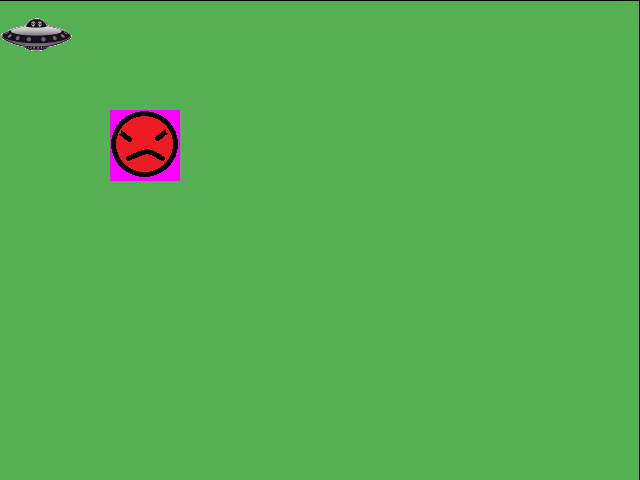
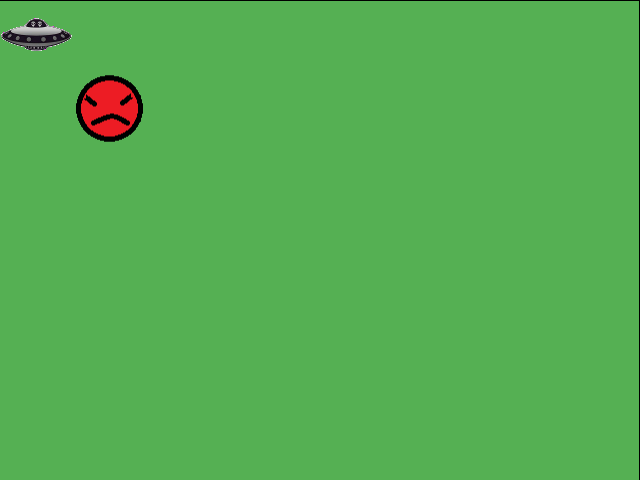
resolved textplay.clear issue and transparency and enemy collision detection

Changed region(s): [[0.0938, 0.1562, 0.2812, 0.375]]

diff --git a/sun/lib/player.rb b/sun/lib/player.rb
@@ -9,7 +9,7 @@ class Player
   def initialize(avatar, game)
     @game = game
     @avatar = Gosu::Image.new(@game.window, avatar, false)
-    @avatar.clear :dest_select => transparency_color
+    #@avatar.clear :dest_select => transparency_color
     p = [@avatar.width/2.0, @avatar.height/2.0 ]
     @radius = p.max
     @position = p
@@ -86,9 +86,18 @@ class Player
     #TODO this doesn't really make sense but illustrates possible behaviors
     @health -= 1
   end
+  #TODO clean this up
+  include UtilityDrawing
   def draw(screen)
+#    @avatar.draw_rot(@position[0] , @position[1] , ZOrder.dynamic.value, @direction, 0.5, 0.5, 1, 1, transparency_color, :default)
     @avatar.draw_rot(@position[0] , @position[1] , ZOrder.dynamic.value, @direction)
+   
     #@avatar.draw_rot(@position[0] , @position[1] , ZOrder.dynamic.value, @direction, 0.5, 0.5, 1,1, transparency_color)
+#    draw_line_segment(screen, Primitives::LineSegment.new(@position, @position.plus([@radius, 0])), ZOrder.dynamic.value)
+#    draw_line_segment(screen, Primitives::LineSegment.new(@position, @position.plus([0, @radius])), ZOrder.dynamic.value)
+#    draw_line_segment(screen, Primitives::LineSegment.new(@position, @position.plus([0, -@radius])), ZOrder.dynamic.value)
+#    draw_line_segment(screen, Primitives::LineSegment.new(@position, @position.plus([-@radius,0])), ZOrder.dynamic.value)
+
   end
   def to_s
     "#{self.class} #{collision_type} r=#{collision_radius} c=#{collision_center}"

diff --git a/sun/lib/enemy.rb b/sun/lib/enemy.rb
@@ -10,6 +10,7 @@ class Enemy
     @radius = p.max
     @health = 15
     @position = p
+    @direction = 0
   end
   def undo_last_move
     unless @last_distance.nil?
@@ -18,8 +19,14 @@ class Enemy
     end
   end
 
+  #TODO clean this up
+  include UtilityDrawing
   def draw(screen)
-    @enemy_avatar.draw(@position[0], @position[1],1)
+    @enemy_avatar.draw_rot(@position[0] , @position[1] , ZOrder.dynamic.value, @direction)
+#    draw_line_segment(screen, Primitives::LineSegment.new(@position, @position.plus([@radius, 0])), ZOrder.dynamic.value)
+#    draw_line_segment(screen, Primitives::LineSegment.new(@position, @position.plus([0, @radius])), ZOrder.dynamic.value)
+#    draw_line_segment(screen, Primitives::LineSegment.new(@position, @position.plus([0, -@radius])), ZOrder.dynamic.value)
+#    draw_line_segment(screen, Primitives::LineSegment.new(@position, @position.plus([-@radius,0])), ZOrder.dynamic.value)
   end
 
   def collision_type

diff --git a/sun/main.rb b/sun/main.rb
@@ -12,13 +12,14 @@ game.movement_distance = 1
 game.turn_speed = 10
 
 game.load_level("test-data/levels/trivial/trivial.yml")
-p = Player.new("test-data/sprites/avatar.png", game)
+p = Player.new("test-data/sprites/avatar.bmp", game)
 w = Weapon.new(game, "test-data/equipment/weapon.png")
 w.type = "projectile"
 p.equip_weapon(w)
 p.position = [300,200]
 game.set_player(p)
-e = Enemy.new("test-data/sprites/enemy_avatar.png", game)
+e = Enemy.new("test-data/sprites/enemy_avatar.bmp", game)
+e.position = [100,100]
 game.set_enemy(e)
 game.show
 

diff --git a/sun/lib/collision_responder.rb b/sun/lib/collision_responder.rb
@@ -33,10 +33,10 @@ class CollisionResponder
           #TODO track the shooter of projectiles
           # puts "player shot self #{col.dynamic1} by projectile #{col.dynamic2}"
         end,
-        Enemy => lambda do |col|
-          col.dynamic1.undo_last_move
-          col.dynamic1.take_damage(col.dynamic2)
-          col.dynamic2.take_damage(col.dynamic1)
+        Enemy => lambda do |c|
+          c.dynamic1.undo_last_move
+          c.dynamic1.take_damage(c.dynamic2)
+          c.dynamic2.take_damage(c.dynamic1)
         end
       }
 

diff --git a/sun/lib/loaders/player_loader.rb b/sun/lib/loaders/player_loader.rb
@@ -8,7 +8,7 @@ class PlayerLoader
 
   def config
     {
-      'avatar' => "game-data/sprites/avatar.png"
+      'avatar' => "game-data/sprites/avatar.bmp"
     }
   end
 
